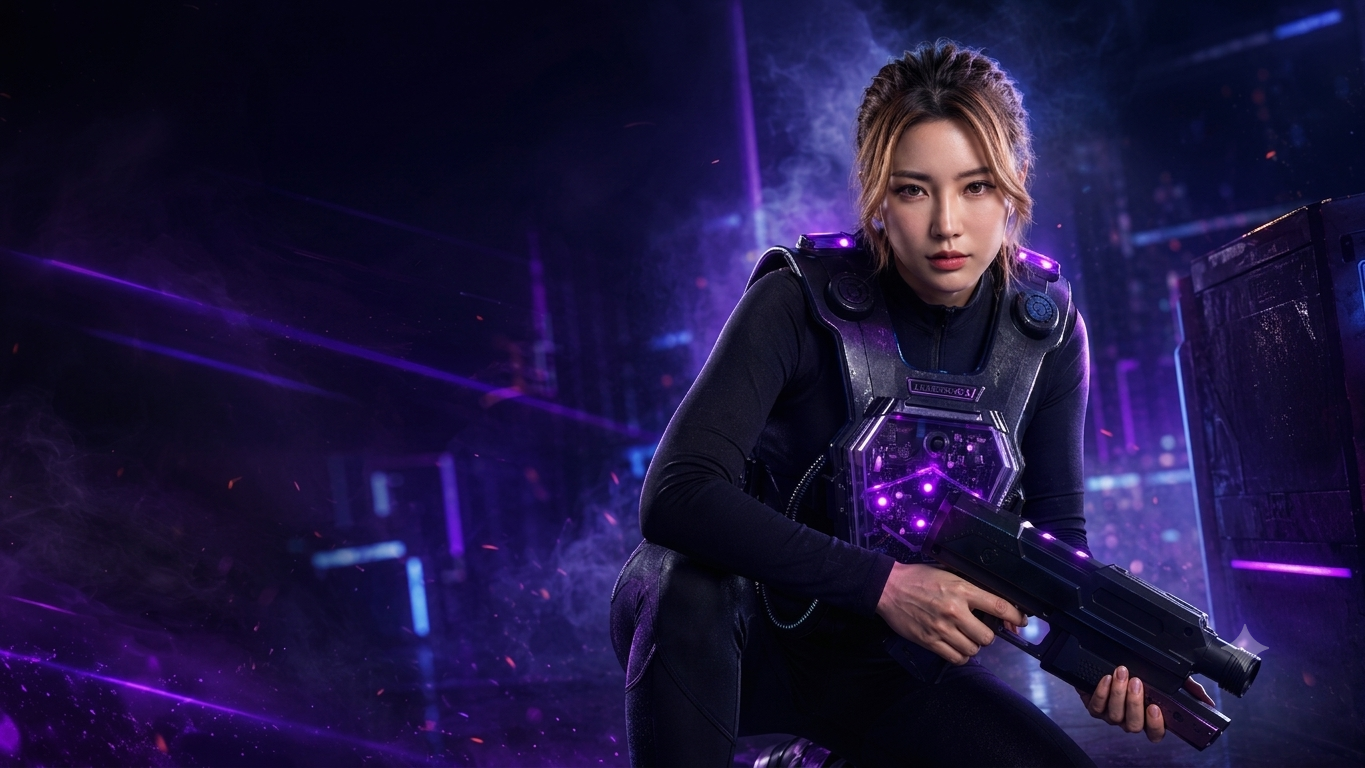
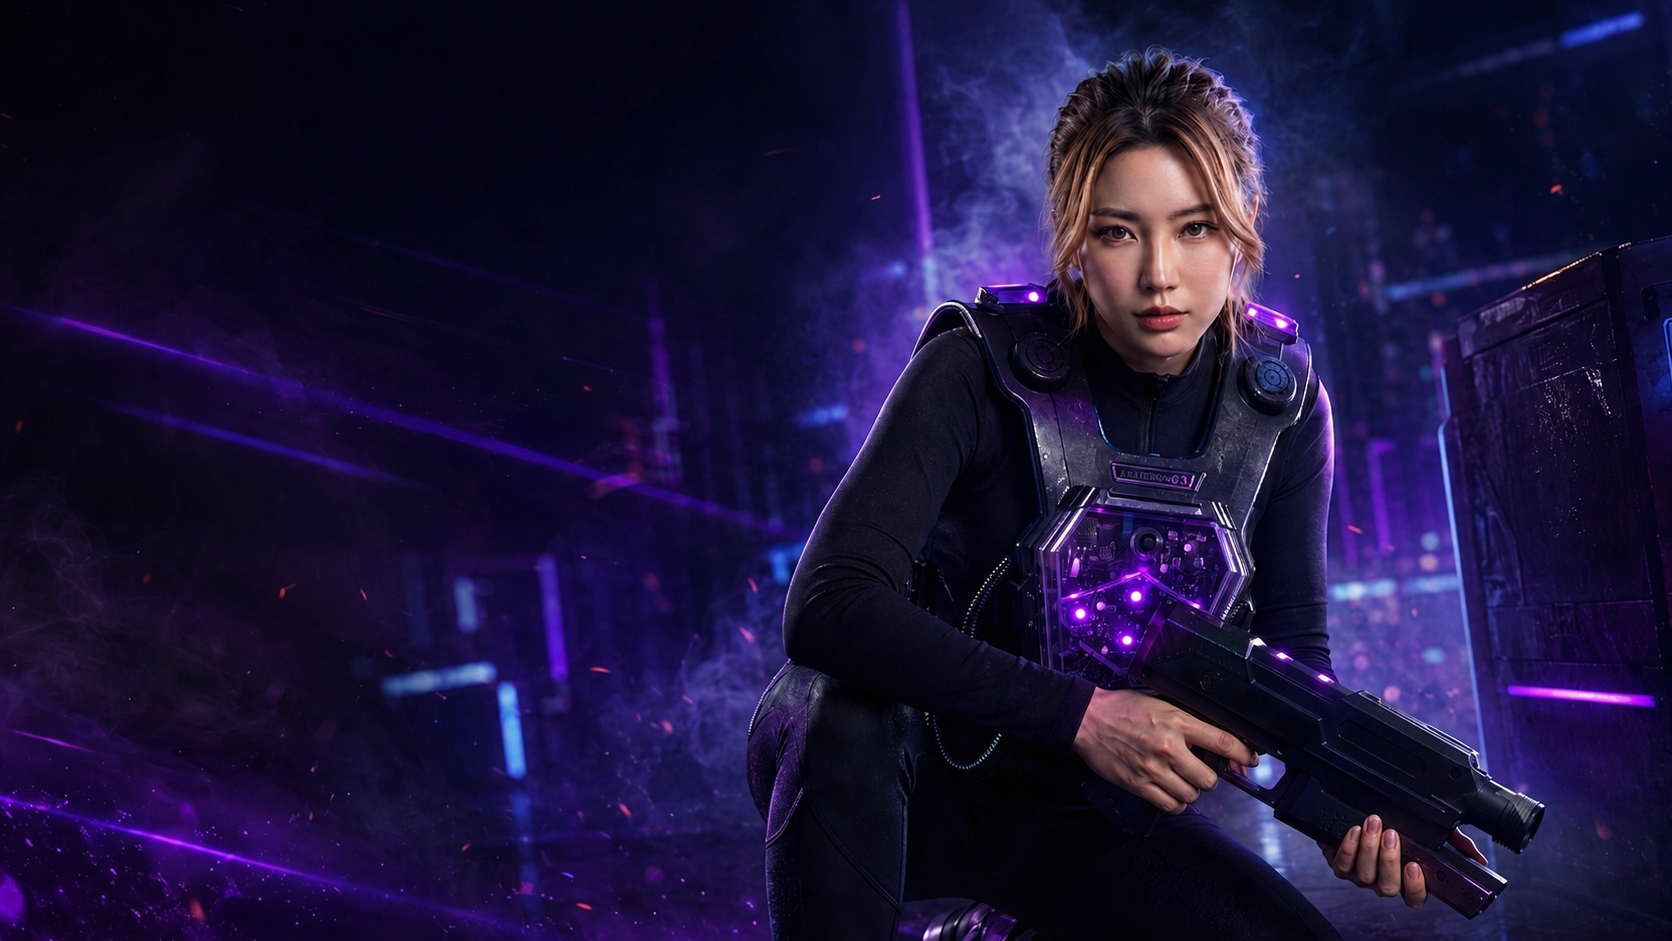
style: modify HeroSvgSmoke to be soft haze instead of path lines

diff --git a/src/components/HeroSvgSmoke.tsx b/src/components/HeroSvgSmoke.tsx
@@ -13,87 +13,67 @@ export default function HeroSvgSmoke() {
       >
         <defs>
           <filter id="svg-smoke-filter" x="-50%" y="-50%" width="200%" height="200%">
+            {/* baseFrequency를 낮추고 애니메이션을 제거해 깜빡임 방지, 구름 같은 덩어리 생성 */}
             <feTurbulence 
               type="fractalNoise" 
-              baseFrequency="0.012" 
+              baseFrequency="0.006" 
               numOctaves="4" 
-              seed="7" 
+              seed="15" 
               result="noise" 
             />
+            {/* 왜곡 수치를 높여서 불규칙한 덩어리감 형성 */}
             <feDisplacementMap 
               in="SourceGraphic" 
               in2="noise" 
-              scale="90" 
+              scale="200" 
               xChannelSelector="R" 
               yChannelSelector="G" 
               result="displaced" 
             />
-            <feGaussianBlur in="displaced" stdDeviation="20" result="blurred" />
+            {/* 블러를 강하게 줘서 선명한 경계선을 없앰 */}
+            <feGaussianBlur in="displaced" stdDeviation="50" result="blurred" />
           </filter>
 
-          <linearGradient id="smoke-pink" x1="0%" y1="100%" x2="0%" y2="0%">
-            <stop offset="0%" stopColor="rgba(255, 42, 157, 0.45)" />
-            <stop offset="60%" stopColor="rgba(255, 42, 157, 0.15)" />
-            <stop offset="100%" stopColor="rgba(255, 42, 157, 0)" />
-          </linearGradient>
+          {/* 은은하고 채도를 낮춘 그라데이션 */}
+          <radialGradient id="smoke-pink" cx="50%" cy="50%" r="50%">
+            <stop offset="0%" stopColor="rgba(200, 50, 150, 0.35)" />
+            <stop offset="50%" stopColor="rgba(200, 50, 150, 0.12)" />
+            <stop offset="100%" stopColor="rgba(200, 50, 150, 0)" />
+          </radialGradient>
 
-          <linearGradient id="smoke-purple" x1="0%" y1="100%" x2="0%" y2="0%">
-            <stop offset="0%" stopColor="rgba(140, 63, 255, 0.35)" />
-            <stop offset="50%" stopColor="rgba(140, 63, 255, 0.1)" />
-            <stop offset="100%" stopColor="rgba(140, 63, 255, 0)" />
-          </linearGradient>
+          <radialGradient id="smoke-purple" cx="50%" cy="50%" r="50%">
+            <stop offset="0%" stopColor="rgba(120, 60, 200, 0.3)" />
+            <stop offset="50%" stopColor="rgba(120, 60, 200, 0.1)" />
+            <stop offset="100%" stopColor="rgba(120, 60, 200, 0)" />
+          </radialGradient>
 
-          <linearGradient id="smoke-blue" x1="0%" y1="100%" x2="0%" y2="0%">
-            <stop offset="0%" stopColor="rgba(32, 198, 255, 0.35)" />
-            <stop offset="65%" stopColor="rgba(32, 198, 255, 0.15)" />
-            <stop offset="100%" stopColor="rgba(32, 198, 255, 0)" />
-          </linearGradient>
+          <radialGradient id="smoke-blue" cx="50%" cy="50%" r="50%">
+            <stop offset="0%" stopColor="rgba(40, 150, 220, 0.25)" />
+            <stop offset="50%" stopColor="rgba(40, 150, 220, 0.08)" />
+            <stop offset="100%" stopColor="rgba(40, 150, 220, 0)" />
+          </radialGradient>
         </defs>
 
         <g filter="url(#svg-smoke-filter)" style={{ mixBlendMode: 'screen' }}>
-          {/* 좌측 핑크 연기 결 */}
-          <path 
-            className="svg-smoke-path pink-path"
-            d="M -100,1100 Q 150,700 250,500 T 350,100" 
-            stroke="url(#smoke-pink)" 
-            strokeWidth="160" 
-            fill="none" 
-            strokeLinecap="round" 
+          {/* 왼쪽 하단 핑크 헤이즈 */}
+          <ellipse 
+            className="svg-smoke-blob pink-blob"
+            cx="150" cy="950" rx="450" ry="300"
+            fill="url(#smoke-pink)"
           />
-          {/* 인물 뒤쪽 퍼플/보라 연기 결 */}
-          <path 
-            className="svg-smoke-path purple-path"
-            d="M 400,1200 Q 550,700 700,500 T 600,-50" 
-            stroke="url(#smoke-purple)" 
-            strokeWidth="240" 
-            fill="none" 
-            strokeLinecap="round" 
+          
+          {/* 인물 뒤쪽(중앙~우측) 퍼플 안개 */}
+          <ellipse 
+            className="svg-smoke-blob purple-blob"
+            cx="700" cy="700" rx="350" ry="450"
+            fill="url(#smoke-purple)"
           />
-          {/* 우측 하단 블루 연기 결 */}
-          <path 
-            className="svg-smoke-path blue-path"
-            d="M 800,1100 Q 1000,750 900,450 T 1100,50" 
-            stroke="url(#smoke-blue)" 
-            strokeWidth="200" 
-            fill="none" 
-            strokeLinecap="round" 
-          />
-          {/* 보조: 얇은 연기 결 */}
-          <path 
-            className="svg-smoke-path pink-path-thin"
-            d="M 100,1100 Q 300,600 200,300" 
-            stroke="url(#smoke-pink)" 
-            strokeWidth="80" 
-            fill="none" 
-            strokeLinecap="round" 
-          />
-          <path 
-            className="svg-smoke-path blue-path-thin"
-            d="M 900,1200 Q 750,700 850,200" 
-            stroke="url(#smoke-blue)" 
-            strokeWidth="100" 
-            fill="none" 
-            strokeLinecap="round" 
+
+          {/* 하단 중앙~우측 블루 안개 */}
+          <ellipse 
+            className="svg-smoke-blob blue-blob"
+            cx="600" cy="1150" rx="550" ry="300"
+            fill="url(#smoke-blue)"
           />
         </g>
       </svg>

diff --git a/src/app/globals.css b/src/app/globals.css
@@ -187,7 +187,8 @@
     
 
 
-/* ── SVG Path Smoke ── */
+
+/* ── SVG Blob Smoke ── */
 .hero-svg-smoke {
   position: absolute;
   inset: 0;
@@ -197,48 +198,41 @@
 }
 
 .smoke-svg {
-  opacity: 0.7;
+  opacity: 0.85; /* 전체적으로 은은하게 톤다운 */
 }
 
-.svg-smoke-path {
-  transform-origin: center bottom;
+.svg-smoke-blob {
+  transform-origin: center center;
   will-change: transform;
 }
 
-.pink-path {
-  animation: svgSmokeSway1 24s ease-in-out infinite alternate;
+.pink-blob {
+  animation: blobSway1 30s ease-in-out infinite alternate;
 }
-.purple-path {
-  animation: svgSmokeSway2 28s ease-in-out infinite alternate-reverse;
+.purple-blob {
+  animation: blobSway2 35s ease-in-out infinite alternate-reverse;
 }
-.blue-path {
-  animation: svgSmokeSway3 26s ease-in-out infinite alternate;
-}
-.pink-path-thin {
-  animation: svgSmokeSway2 20s ease-in-out infinite alternate;
-}
-.blue-path-thin {
-  animation: svgSmokeSway1 22s ease-in-out infinite alternate-reverse;
+.blue-blob {
+  animation: blobSway3 40s ease-in-out infinite alternate;
 }
 
-@keyframes svgSmokeSway1 {
-  0% { transform: translateX(0) scale(1) rotate(0deg); opacity: 0.8; }
-  100% { transform: translateX(30px) scale(1.05) rotate(2deg); opacity: 1; }
+/* 움직임을 아주 미세하게 최소화 (깜빡임, 튀는 느낌 제거) */
+@keyframes blobSway1 {
+  0% { transform: translate3d(0, 0, 0) scale(1) rotate(0deg); }
+  100% { transform: translate3d(20px, -15px, 0) scale(1.02) rotate(1deg); }
 }
-@keyframes svgSmokeSway2 {
-  0% { transform: translateX(0) scale(1) rotate(0deg); opacity: 0.8; }
-  100% { transform: translateX(-40px) scale(1.1) rotate(-2deg); opacity: 1; }
+@keyframes blobSway2 {
+  0% { transform: translate3d(0, 0, 0) scale(1) rotate(0deg); }
+  100% { transform: translate3d(-15px, 15px, 0) scale(1.03) rotate(-1deg); }
 }
-@keyframes svgSmokeSway3 {
-  0% { transform: translateX(0) scale(1) rotate(0deg); opacity: 0.8; }
-  100% { transform: translateX(35px) scale(1.05) rotate(3deg); opacity: 1; }
+@keyframes blobSway3 {
+  0% { transform: translate3d(0, 0, 0) scale(1) rotate(0deg); }
+  100% { transform: translate3d(25px, -10px, 0) scale(1.02) rotate(1deg); }
 }
 
 @media(max-width: 768px) {
   .smoke-svg {
-    opacity: 0.35;
-    transform: scale(0.85) translateY(15%);
-    transform-origin: bottom center;
+    opacity: 0.5; /* 모바일에서는 더 연하게 */
   }
 }
 

diff --git a/update_svg_css2.py b/update_svg_css2.py
@@ -1,0 +1,69 @@
+import re
+
+with open('src/app/globals.css', 'r') as f:
+    content = f.read()
+
+# Replace the old svg-smoke-path classes with svg-smoke-blob
+content = re.sub(
+    r'/\*\s*── SVG Path Smoke ──\s*\*/.*?(?=\/\*\s*콘텐츠가 스모그보다 위에 오도록\s*\*\/)',
+    '',
+    content,
+    flags=re.DOTALL
+)
+
+new_css = """
+/* ── SVG Blob Smoke ── */
+.hero-svg-smoke {
+  position: absolute;
+  inset: 0;
+  z-index: 2;
+  pointer-events: none;
+  overflow: hidden;
+}
+
+.smoke-svg {
+  opacity: 0.85; /* 전체적으로 은은하게 톤다운 */
+}
+
+.svg-smoke-blob {
+  transform-origin: center center;
+  will-change: transform;
+}
+
+.pink-blob {
+  animation: blobSway1 30s ease-in-out infinite alternate;
+}
+.purple-blob {
+  animation: blobSway2 35s ease-in-out infinite alternate-reverse;
+}
+.blue-blob {
+  animation: blobSway3 40s ease-in-out infinite alternate;
+}
+
+/* 움직임을 아주 미세하게 최소화 (깜빡임, 튀는 느낌 제거) */
+@keyframes blobSway1 {
+  0% { transform: translate3d(0, 0, 0) scale(1) rotate(0deg); }
+  100% { transform: translate3d(20px, -15px, 0) scale(1.02) rotate(1deg); }
+}
+@keyframes blobSway2 {
+  0% { transform: translate3d(0, 0, 0) scale(1) rotate(0deg); }
+  100% { transform: translate3d(-15px, 15px, 0) scale(1.03) rotate(-1deg); }
+}
+@keyframes blobSway3 {
+  0% { transform: translate3d(0, 0, 0) scale(1) rotate(0deg); }
+  100% { transform: translate3d(25px, -10px, 0) scale(1.02) rotate(1deg); }
+}
+
+@media(max-width: 768px) {
+  .smoke-svg {
+    opacity: 0.5; /* 모바일에서는 더 연하게 */
+  }
+}
+
+"""
+
+content = content.replace('/* 콘텐츠가 스모그보다 위에 오도록 */', new_css + '/* 콘텐츠가 스모그보다 위에 오도록 */')
+
+with open('src/app/globals.css', 'w') as f:
+    f.write(content)
+
